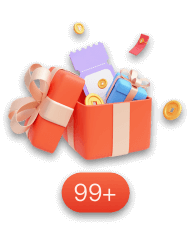
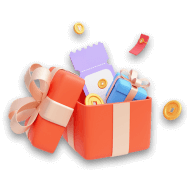
feat: 年货节

diff --git a/src/pages/activities/newYear/index.vue b/src/pages/activities/newYear/index.vue
@@ -56,6 +56,11 @@
       </div>
     </div>
   </div>
+
+  <div class="bag-wrap">
+    <img class="bag" src="./images/bag.png" alt="" />
+    <div class="bag-num">99</div>
+  </div>
 </template>
 
 <script setup lang="ts">
@@ -149,6 +154,33 @@ const awardList = [
         text-align: right;
       }
     }
+  }
+}
+
+.bag-wrap {
+  position: fixed;
+  right: 0.24rem;
+  bottom: 0.4rem;
+  display: flex;
+  flex-direction: column;
+  align-items: center;
+  .bag {
+    width: 1.9rem;
+    height: 1.74rem;
+  }
+  .bag-num {
+    display: flex;
+    align-items: center;
+    margin-top: -0.16rem;
+    padding: 0 0.16rem;
+    width: fit-content;
+    height: 0.4rem;
+    color: #fff;
+    font-size: 0.24rem;
+    line-height: 1;
+    background: linear-gradient(180deg, #f66b46 0%, #e33825 100%);
+    box-shadow: 0px 2px 4px 0px rgba(0, 0, 0, 0.5);
+    border-radius: 0.2rem;
   }
 }
 </style>
